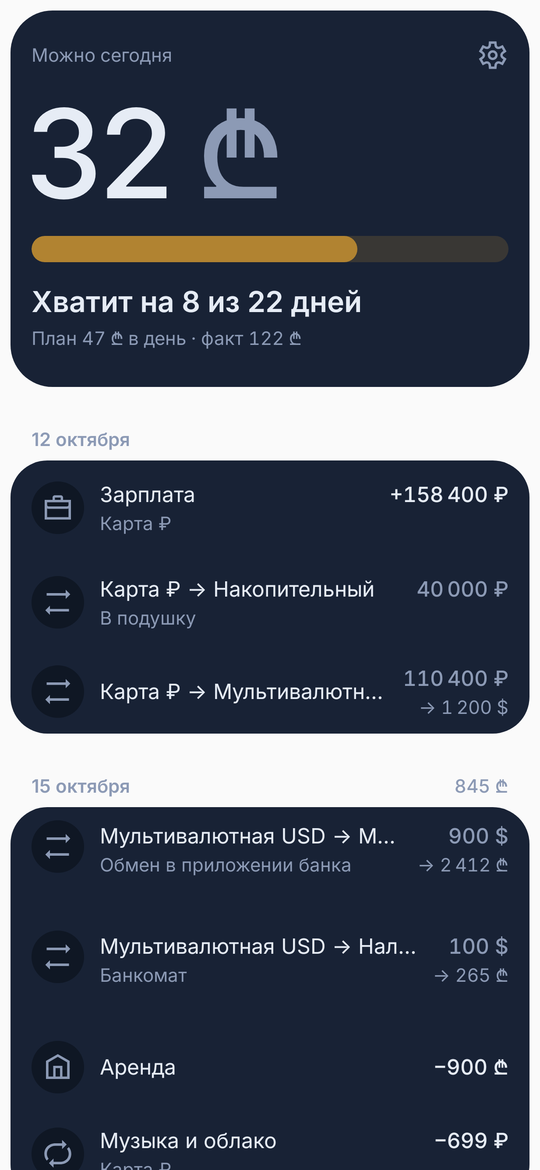
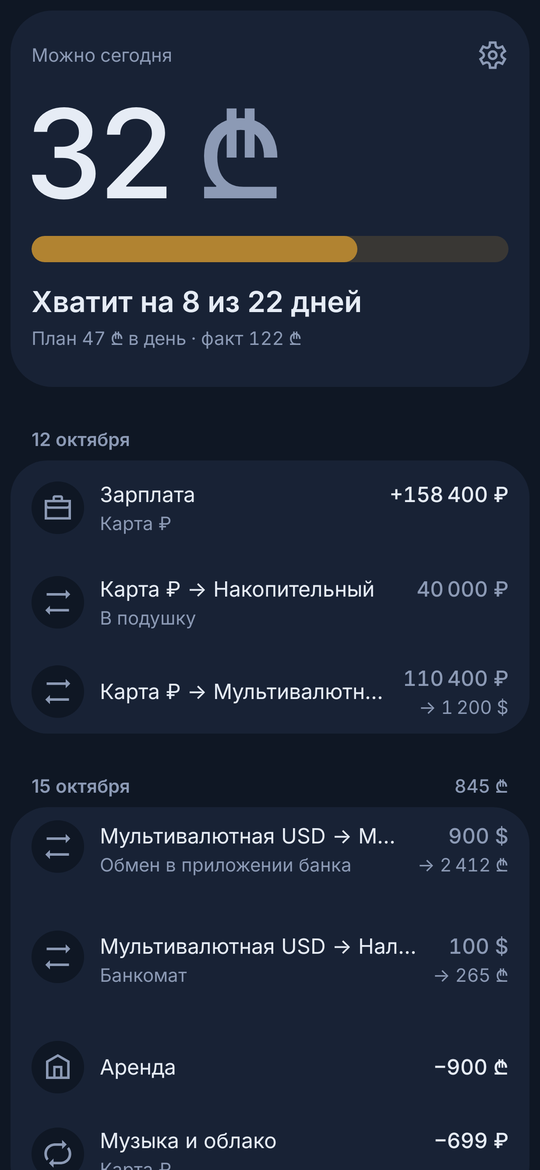
Screenshots: the theme's page background behind each screen
A screen alone draws no background; the app's scaffold does. Without it
the Midnight accounts screenshot had dark cards on white.

Changed region(s): [[0.0, 0.0, 1.0, 1.0]]

diff --git a/app/src/test/java/sh/aminov/golda/ScreenshotTest.kt b/app/src/test/java/sh/aminov/golda/ScreenshotTest.kt
@@ -1,5 +1,10 @@
 package sh.aminov.golda
 
+import androidx.compose.ui.Modifier
+import androidx.compose.material3.MaterialTheme
+import androidx.compose.foundation.layout.fillMaxSize
+import androidx.compose.foundation.layout.Box
+import androidx.compose.foundation.background
 import androidx.compose.foundation.layout.PaddingValues
 import androidx.compose.foundation.lazy.rememberLazyListState
 import androidx.compose.material3.SnackbarHostState
@@ -63,7 +68,8 @@ class ScreenshotTest {
     }
 
     private fun shot(name: String, palette: String = "golda", content: @Composable () -> Unit) {
-        compose.setContent { GoldaTheme(palette) { content() } }
+        // The page's own background, as the app's scaffold gives it: a screen alone is transparent.
+        compose.setContent { GoldaTheme(palette) { Box(Modifier.fillMaxSize().background(MaterialTheme.colorScheme.background)) { content() } } }
         compose.onRoot().captureRoboImage(
             "src/test/screenshots/$name.png",
             roborazziOptions = RoborazziOptions(compareOptions = RoborazziOptions.CompareOptions(changeThreshold = 0.002f)),
